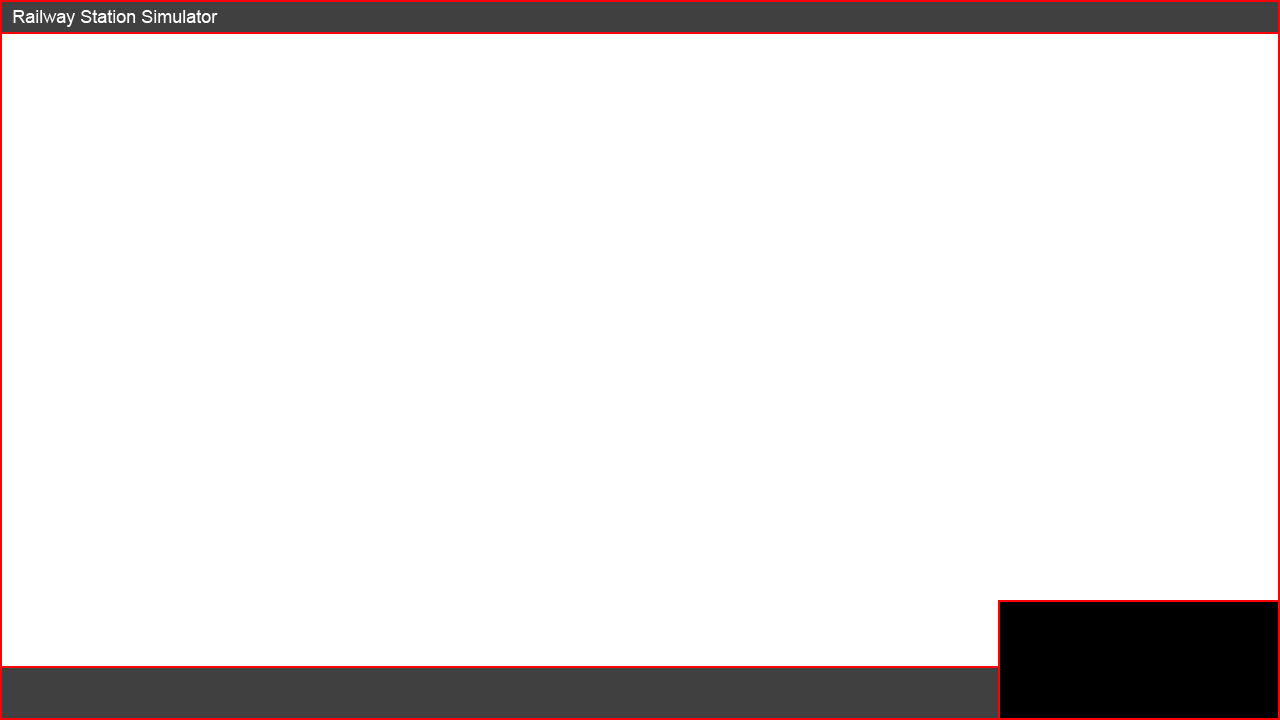
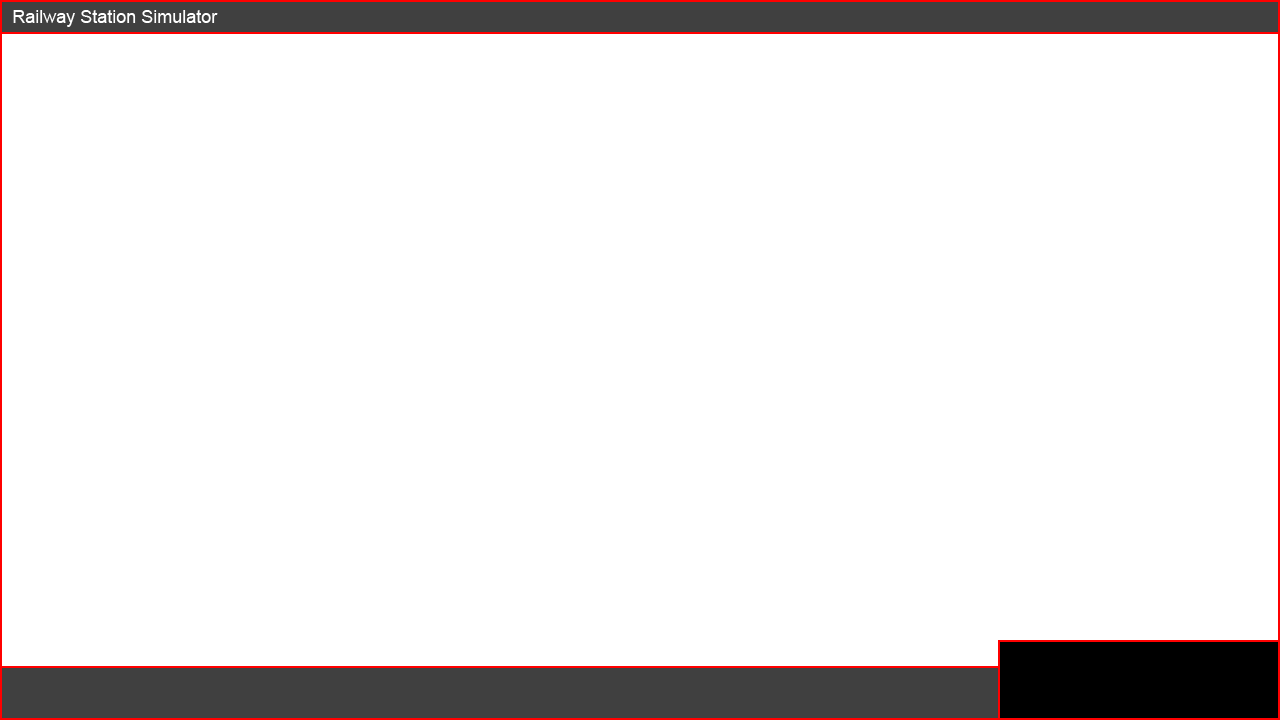
autosave; updated artwork

Changed region(s): [[0.7812, 0.825, 1.0, 0.9167]]

diff --git a/rssim.py b/rssim.py
@@ -2157,16 +2157,6 @@ class RSSim(Game):
         self.logger.info('trail points initialized for even tracks')
 
     def create_onboarding_tips(self):
-        saved_onboarding_image = pyglet.image.load('img/game_saved.png')
-        self.saved_onboarding_tip \
-            = OnboardingTips(image=saved_onboarding_image,
-                             x=self.c.screen_resolution[0] // 2 - saved_onboarding_image.width // 2,
-                             y=self.c.screen_resolution[1] // 2 - saved_onboarding_image.height // 2,
-                             tip_type='game_saved', batch=self.batch,
-                             group=self.top_bottom_bars_ordered_group,
-                             viewport_border_group=self.buttons_general_borders_day_text_ordered_group,
-                             game_config=self.c)
-        self.objects.append(self.saved_onboarding_tip)
         self.dispatcher.mini_map_tip = self.mini_map_tip
         self.objects.append(self.mini_map_tip)
         self.logger.debug('saved_onboarding_tip appended to global objects list')
@@ -2181,11 +2171,22 @@ class RSSim(Game):
 
         def resume_game(button):
             self.game_paused = False
-            self.saved_onboarding_tip.condition_met = False
-            self.saved_onboarding_tip.return_rect_area = True
             self.logger.critical('------- GAME IS RESUMED -------')
 
         def close_game(button):
+            for i in self.objects:
+                i.save_state()
+
+            for x in range(len(self.base_routes)):
+                for y in self.base_routes[x]:
+                    if self.base_routes[x][y] is not None:
+                        self.base_routes[x][y].save_state()
+
+            for u in self.junctions:
+                for v in self.junctions[u]:
+                    for w in self.junctions[u][v]:
+                        self.junctions[u][v][w].save_state()
+
             self.surface.close()
             sys.exit()
 
@@ -2207,63 +2208,61 @@ class RSSim(Game):
                     for w in self.junctions[u][v]:
                         self.junctions[u][v][w].save_state()
 
-            self.saved_onboarding_tip.condition_met = True
             self.logger.critical('------- GAME SAVE END -------')
 
-        self.objects.append(InGameTime(batch=self.batch,
-                                       day_text_group=self.buttons_general_borders_day_text_ordered_group,
-                                       game_config=self.c))
         self.logger.debug('time appended to global objects list')
         self.objects.append(TopAndBottomBar(batch=self.batch,
                                             bar_group=self.top_bottom_bars_ordered_group, game_config=self.c))
         self.logger.debug('bottom bar appended to global objects list')
-        stop_button = Button(position=(890, 7), button_size=(100, 40), text=['Pause', 'Resume'],
-                             on_click=[pause_game, resume_game], draw_only_if_game_paused=False,
+        stop_button = Button(position=(self.c.screen_resolution[0] - 80, 0), button_size=(80, 80),
+                             text=['‖', '►'], on_click=[pause_game, resume_game],
+                             draw_only_if_game_paused=False,
                              batch=self.batch, button_group=self.buttons_general_borders_day_text_ordered_group,
                              text_group=self.buttons_text_and_borders_ordered_group,
-                             borders_group=self.buttons_text_and_borders_ordered_group, game_config=self.c)
-        save_button = Button(position=(780, 7), button_size=(100, 40), text=['Save', ], on_click=[save_game, ],
-                             draw_only_if_game_paused=True,
-                             batch=self.batch, button_group=self.buttons_general_borders_day_text_ordered_group,
-                             text_group=self.buttons_text_and_borders_ordered_group,
-                             borders_group=self.buttons_text_and_borders_ordered_group, game_config=self.c)
+                             borders_group=self.buttons_text_and_borders_ordered_group, game_config=self.c,
+                             logs_description='pause/resume')
         close_button = Button(position=(self.c.screen_resolution[0] - 34,
                                         self.c.screen_resolution[1] - 34), button_size=(34, 34),
                               text=['X', ], on_click=[close_game, ], draw_only_if_game_paused=False,
                               batch=self.batch, button_group=self.buttons_general_borders_day_text_ordered_group,
                               text_group=self.buttons_text_and_borders_ordered_group,
-                              borders_group=self.buttons_text_and_borders_ordered_group, game_config=self.c)
-        iconify_button = Button(position=(self.c.screen_resolution[0] - 66,
-                                          self.c.screen_resolution[1] - 34), button_size=(34, 34),
-                                text=['_', ], on_click=[iconify_game, ], draw_only_if_game_paused=False,
+                              borders_group=self.buttons_text_and_borders_ordered_group, game_config=self.c,
+                              logs_description='close')
+        iconify_button = Button(position=(self.c.screen_resolution[0] - 66, self.c.screen_resolution[1] - 34),
+                                button_size=(34, 34), text=['_', ], on_click=[iconify_game, ],
+                                draw_only_if_game_paused=False,
                                 batch=self.batch, button_group=self.buttons_general_borders_day_text_ordered_group,
                                 text_group=self.buttons_text_and_borders_ordered_group,
-                                borders_group=self.buttons_text_and_borders_ordered_group, game_config=self.c)
+                                borders_group=self.buttons_text_and_borders_ordered_group, game_config=self.c,
+                                logs_description='iconify')
         self.on_mouse_press_handlers.append(stop_button.handle_mouse_press)
-        self.on_mouse_press_handlers.append(save_button.handle_mouse_press)
         self.on_mouse_press_handlers.append(close_button.handle_mouse_press)
         self.on_mouse_press_handlers.append(iconify_button.handle_mouse_press)
         self.on_mouse_press_handlers.append(self.handle_mouse_press)
 
         self.on_mouse_release_handlers.append(stop_button.handle_mouse_release)
-        self.on_mouse_release_handlers.append(save_button.handle_mouse_release)
         self.on_mouse_release_handlers.append(close_button.handle_mouse_release)
         self.on_mouse_release_handlers.append(iconify_button.handle_mouse_release)
         self.on_mouse_release_handlers.append(self.handle_mouse_release)
 
         self.on_mouse_motion_handlers.append(stop_button.handle_mouse_motion)
-        self.on_mouse_motion_handlers.append(save_button.handle_mouse_motion)
         self.on_mouse_motion_handlers.append(close_button.handle_mouse_motion)
         self.on_mouse_motion_handlers.append(iconify_button.handle_mouse_motion)
+
+        self.on_mouse_leave_handlers.append(stop_button.handle_mouse_leave)
+        self.on_mouse_leave_handlers.append(close_button.handle_mouse_leave)
+        self.on_mouse_leave_handlers.append(iconify_button.handle_mouse_leave)
 
         self.on_mouse_drag_handlers.append(self.handle_mouse_drag)
         self.logger.debug('save button button handler appended to global mouse handlers list')
         self.objects.append(stop_button)
         self.logger.debug('pause/resume button appended to global objects list')
-        self.objects.append(save_button)
         self.objects.append(close_button)
         self.objects.append(iconify_button)
         self.logger.debug('save button appended to global objects list')
+        self.objects.append(InGameTime(batch=self.batch,
+                                       day_text_group=self.buttons_general_borders_day_text_ordered_group,
+                                       game_config=self.c, auto_save_function=save_game))
         self.logger.debug('------- END CREATING BUTTONS -------')
         self.logger.warning('all buttons created')
 

diff --git a/ingame_time.py b/ingame_time.py
@@ -16,7 +16,7 @@ def _game_is_not_paused(fn):
 
 
 class InGameTime(GameObject):
-    def __init__(self, batch, day_text_group, game_config):
+    def __init__(self, batch, day_text_group, game_config, auto_save_function):
         super().__init__(game_config)
         self.logger = logging.getLogger('game.in-game_time')
         self.logger.debug('------- START INIT -------')
@@ -34,16 +34,17 @@ class InGameTime(GameObject):
                                           font_name='Courier New', bold=True,
                                           font_size=self.c.day_font_size,
                                           color=self.c.day_text_color,
-                                          x=self.c.screen_resolution[0] - 141, y=85,
+                                          x=self.c.screen_resolution[0] - 181, y=57,
                                           anchor_x='center', anchor_y='center',
                                           batch=batch, group=day_text_group)
         self.time_text = pyglet.text.Label('0',
                                            font_name='Courier New', bold=True,
                                            font_size=self.c.day_font_size,
                                            color=self.c.day_text_color,
-                                           x=self.c.screen_resolution[0] - 141, y=45,
+                                           x=self.c.screen_resolution[0] - 181, y=26,
                                            anchor_x='center', anchor_y='center',
                                            batch=batch, group=day_text_group)
+        self.auto_save_function = auto_save_function
         self.logger.debug('------- END INIT -------')
         self.logger.warning('time init completed')
 
@@ -124,6 +125,9 @@ class InGameTime(GameObject):
         if self.epoch_timestamp % 345600 == 0:
             self.day += 1
             self.day_text.text = 'DAY {}'.format(self.day)
+
+        if self.epoch_timestamp % 28800 == 0:
+            self.auto_save_function(None)
 
         self.logger.debug('------- TIME UPDATE END -------')
         self.logger.info('time updated')

diff --git a/button.py b/button.py
@@ -15,9 +15,9 @@ def _allowed_to_be_drawn(fn):
 
 class Button(GameObject):
     def __init__(self, position, button_size, text, on_click, draw_only_if_game_paused,
-                 batch, button_group, text_group, borders_group, game_config):
+                 batch, button_group, text_group, borders_group, game_config, logs_description):
         super().__init__(game_config)
-        self.logger = logging.getLogger('game.{} button'.format(text[0]))
+        self.logger = logging.getLogger('game.{}_button'.format(logs_description))
         self.logger.debug('------- START INIT -------')
         self.draw_only_if_game_paused = draw_only_if_game_paused
         self.logger.debug('draw only if game paused set: {}'.format(self.draw_only_if_game_paused))
@@ -161,3 +161,9 @@ class Button(GameObject):
                 self.text_object_actual_text = self.text[0]
                 self.text_object_actual.text = self.text[0]
                 self.logger.debug('button has only 1 text, so it remains the same')
+
+    @_allowed_to_be_drawn
+    def handle_mouse_leave(self, x, y):
+        self.state = 'normal'
+        self.vertex_list.colors = (0, 0, 0, 255, 0, 0, 0, 255, 0, 0, 0, 255, 0, 0, 0, 255)
+        self.logger.debug('cursor is not on the button')

diff --git a/game.py b/game.py
@@ -85,6 +85,7 @@ class Game:
         self.on_mouse_release_handlers = []
         self.on_mouse_motion_handlers = []
         self.on_mouse_drag_handlers = []
+        self.on_mouse_leave_handlers = []
         self.surface.set_location(0, 0)
         self.app_window_move_mode = False
         self.map_move_mode = False
@@ -135,6 +136,11 @@ class Game:
         def on_mouse_drag(x, y, dx, dy, button, modifiers):
             for i in self.on_mouse_drag_handlers:
                 i(x, y, dx, dy, button, modifiers)
+
+        @surface.event
+        def on_mouse_leave(x, y):
+            for i in self.on_mouse_leave_handlers:
+                i(x, y)
 
     def manage_logs_config(self):
         self.logs_config.read('logs_config.ini')
